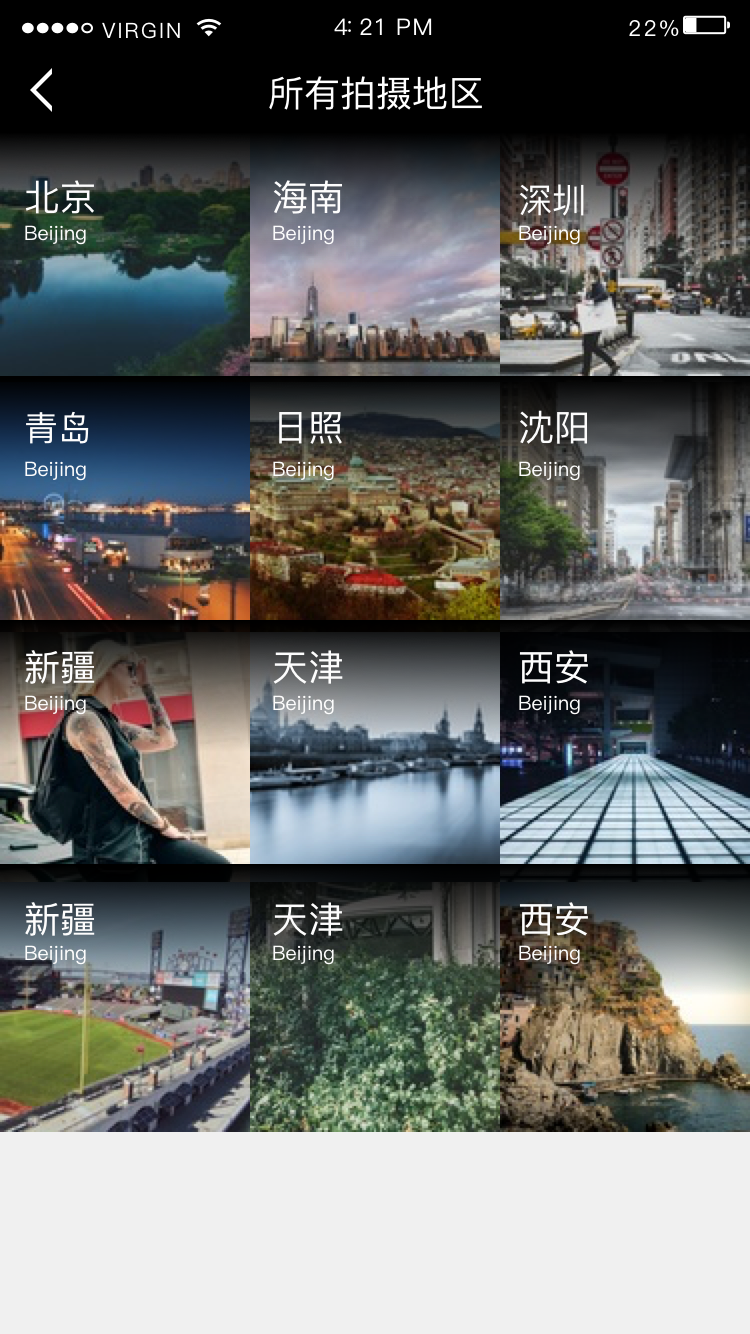
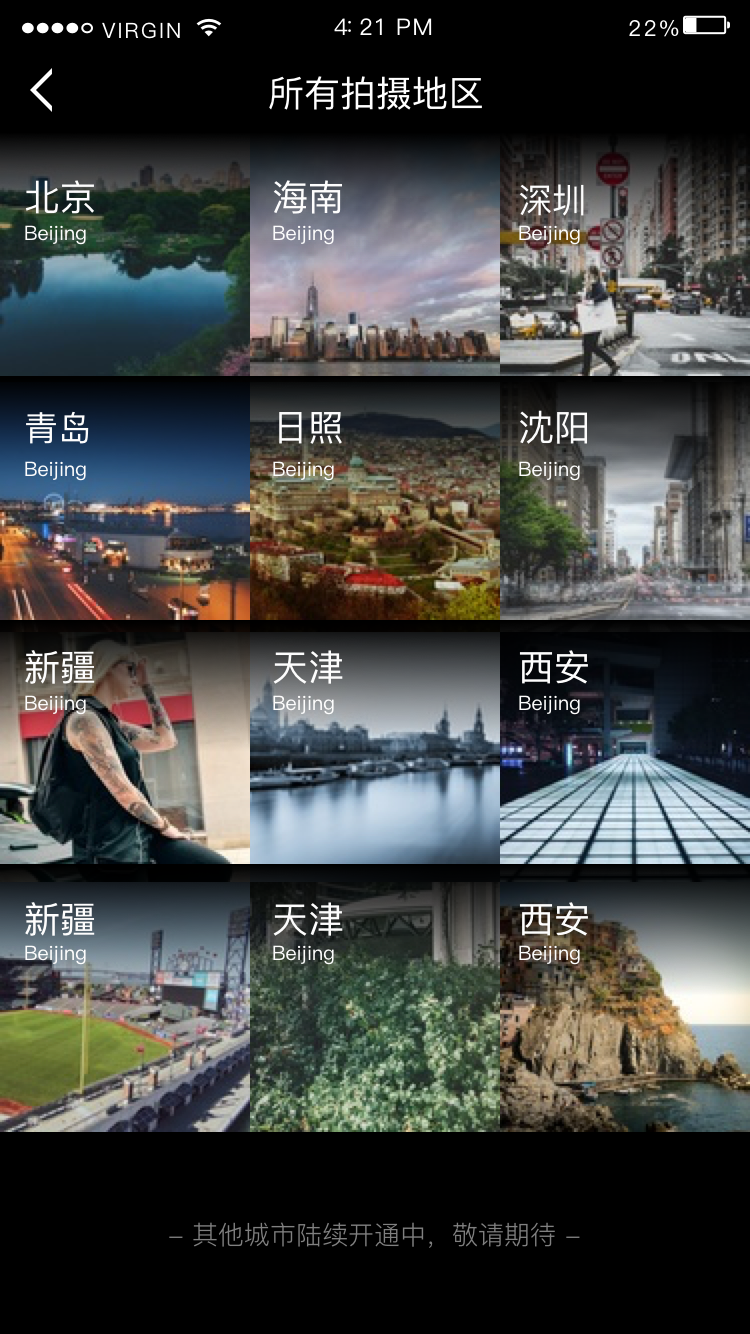
更多拍摄地区改

Changed region(s): [[0.0, 0.8298, 1.0, 1.0]]

diff --git a/更多拍摄地区/data.js b/更多拍摄地区/data.js
@@ -1,1 +1,1 @@
-var pageData = {"exportEveryLayer":0,"sketchName":"","language":"cn","I18N":{"UNIT":"单位","SIZE":"尺寸","SHOWSLICE":"显示切片","DRAGTOSAVE":"右键或拖拽到桌面保存","WIDTH":"宽","HEIGHT":"高","BORDER":"边框","COLOR":"颜色","FILLCOLOR":"填充色","RADIUS":"圆角","LAYERTEXT":"图层内容","FONTSIZE":"字号","CODE":"代码","EXPORT":"导出","FORMAT":"格式","EXPORTLAYER":"导出选中图层","COPYSUCCESS":"复制成功","TEXTSHAREDSTYLE":"文字样式","SHAPESHAREDSTYLE":"图层样式"},"pageOrder":["D2AA90E8-82E9-454D-B242-88E93E7421E1"],"pageData":{"D2AA90E8-82E9-454D-B242-88E93E7421E1":{"pageId":"D2AA90E8-82E9-454D-B242-88E93E7421E1","name":"Page%201","artboardId":["FE665C88-E9EF-493C-A204-9DB38BE2D1B2"]}},"artboard":{"FE665C88-E9EF-493C-A204-9DB38BE2D1B2":{"id":"FE665C88-E9EF-493C-A204-9DB38BE2D1B2","src":"FE665C88-E9EF-493C-A204-9DB38BE2D1B2","name":"iPhone%206%20Copy%2039","x":0,"y":0,"zIndex":0,"width":375,"height":667,"sharedStyleType":"","sharedStyle":"","slice":[],"layer":[{"id":"AA41A6AC-3F42-4175-AAF4-C626F64E25E3","src":"AA41A6AC-3F42-4175-AAF4-C626F64E25E3","name":"Rectangle%20602","x":0,"y":66,"zIndex":0,"width":125,"height":125,"sharedStyleType":"","sharedStyle":"","style":{"width":"125px","height":"125px"}},{"id":"23E7280C-F6B3-4BAE-968D-A47FE6CFA9ED","src":"23E7280C-F6B3-4BAE-968D-A47FE6CFA9ED","name":"Rectangle%20602%20Copy%203","x":0,"y":191,"zIndex":1,"width":125,"height":125,"sharedStyleType":"","sharedStyle":"","style":{"width":"125px","height":"125px"}},{"id":"2E8F5C0B-8448-4AFA-BE68-65B65ACA89C4","src":"2E8F5C0B-8448-4AFA-BE68-65B65ACA89C4","name":"Rectangle%20602%20Copy","x":125,"y":66,"zIndex":2,"width":125,"height":125,"sharedStyleType":"","sharedStyle":"","style":{"width":"125px","height":"125px"}},{"id":"68D3CC74-A40B-4690-85E6-944BB31D60BF","src":"68D3CC74-A40B-4690-85E6-944BB31D60BF","name":"Rectangle%20602%20Copy%204","x":125,"y":191,"zIndex":3,"width":125,"height":125,"sharedStyleType":"","sharedStyle":"","style":{"width":"125px","height":"125px"}},{"id":"056B90EB-AD04-4FA9-A884-996B4EC3C545","src":"056B90EB-AD04-4FA9-A884-996B4EC3C545","name":"Rectangle%20602%20Copy%202","x":250,"y":66,"zIndex":4,"width":125,"height":125,"sharedStyleType":"","sharedStyle":"","style":{"width":"125px","height":"125px"}},{"id":"6B9F06B7-237D-4D61-AE99-734874237DE0","src":"6B9F06B7-237D-4D61-AE99-734874237DE0","name":"Rectangle%20602%20Copy%205","x":250,"y":191,"zIndex":5,"width":125,"height":125,"sharedStyleType":"","sharedStyle":"","style":{"width":"125px","height":"125px"}},{"id":"DCE77FEA-B2EA-40F9-8315-B048350CAB86","src":"DCE77FEA-B2EA-40F9-8315-B048350CAB86","name":"Rectangle%20602%20Copy%208","x":0,"y":316,"zIndex":6,"width":125,"height":125,"sharedStyleType":"","sharedStyle":"","style":{"width":"125px","height":"125px"}},{"id":"CF87B9C1-BE52-4FB6-B465-A9EEAAF77E48","src":"CF87B9C1-BE52-4FB6-B465-A9EEAAF77E48","name":"Rectangle%20602%20Copy%207","x":125,"y":316,"zIndex":7,"width":125,"height":125,"sharedStyleType":"","sharedStyle":"","style":{"width":"125px","height":"125px"}},{"id":"D7213F77-567C-4214-A66F-B45E71EBE4C7","src":"D7213F77-567C-4214-A66F-B45E71EBE4C7","name":"Rectangle%20602%20Copy%206","x":250,"y":316,"zIndex":8,"width":125,"height":125,"sharedStyleType":"","sharedStyle":"","style":{"width":"125px","height":"125px"}},{"id":"2C269A20-8CA6-4CFB-92F4-111C57EC32B1","src":"2C269A20-8CA6-4CFB-92F4-111C57EC32B1","name":"Rectangle%20602%20Copy%2011","x":0,"y":441,"zIndex":9,"width":125,"height":125,"sharedStyleType":"","sharedStyle":"","style":{"width":"125px","height":"125px"}},{"id":"759131BB-2CDC-45FE-B1B4-CD0B80D7A158","src":"759131BB-2CDC-45FE-B1B4-CD0B80D7A158","name":"Rectangle%20602%20Copy%2010","x":125,"y":441,"zIndex":10,"width":125,"height":125,"sharedStyleType":"","sharedStyle":"","style":{"width":"125px","height":"125px"}},{"id":"255310E1-71AE-4406-A3A4-7C453D2DC279","src":"255310E1-71AE-4406-A3A4-7C453D2DC279","name":"Rectangle%20602%20Copy%209","x":250,"y":441,"zIndex":11,"width":125,"height":125,"sharedStyleType":"","sharedStyle":"","style":{"width":"125px","height":"125px"}},{"id":"5A71E75A-5DDF-46FC-B44D-DDC383C0B4CF","src":"5A71E75A-5DDF-46FC-B44D-DDC383C0B4CF","name":"Rectangle%20602%20Copy%2012","x":0,"y":66,"zIndex":12,"width":125,"height":66,"sharedStyleType":"","sharedStyle":"","style":{"background-image":"linear-gradient(-180deg, #000000 0%, rgba(0,0,0,0.00) 100%)","width":"125px","height":"66px"}},{"id":"8D5F2296-84FB-4B47-82E4-4F232B380C12","src":"8D5F2296-84FB-4B47-82E4-4F232B380C12","name":"Rectangle%20602%20Copy%2015","x":0,"y":188,"zIndex":13,"width":125,"height":66,"sharedStyleType":"","sharedStyle":"","style":{"background-image":"linear-gradient(-180deg, #000000 0%, rgba(0,0,0,0.00) 100%)","width":"125px","height":"66px"}},{"id":"ABDD4B86-1CB5-4D88-AF6E-196B6A17793A","src":"ABDD4B86-1CB5-4D88-AF6E-196B6A17793A","name":"Rectangle%20602%20Copy%2013","x":125,"y":66,"zIndex":14,"width":125,"height":66,"sharedStyleType":"","sharedStyle":"","style":{"background-image":"linear-gradient(-180deg, #000000 0%, rgba(0,0,0,0.00) 100%)","width":"125px","height":"66px"}},{"id":"3DB50A85-855B-4B4E-94D1-934FE98E2524","src":"3DB50A85-855B-4B4E-94D1-934FE98E2524","name":"Rectangle%20602%20Copy%2016","x":125,"y":188,"zIndex":15,"width":125,"height":66,"sharedStyleType":"","sharedStyle":"","style":{"background-image":"linear-gradient(-180deg, #000000 0%, rgba(0,0,0,0.00) 100%)","width":"125px","height":"66px"}},{"id":"1A57555E-B08D-4D40-A4B1-2343E0589F54","src":"1A57555E-B08D-4D40-A4B1-2343E0589F54","name":"Rectangle%20602%20Copy%2014","x":250,"y":66,"zIndex":16,"width":125,"height":66,"sharedStyleType":"","sharedStyle":"","style":{"background-image":"linear-gradient(-180deg, #000000 0%, rgba(0,0,0,0.00) 100%)","width":"125px","height":"66px"}},{"id":"3CB93C60-8296-4049-B956-82E6809D6840","src":"3CB93C60-8296-4049-B956-82E6809D6840","name":"Rectangle%20602%20Copy%2017","x":250,"y":188,"zIndex":17,"width":125,"height":66,"sharedStyleType":"","sharedStyle":"","style":{"background-image":"linear-gradient(-180deg, #000000 0%, rgba(0,0,0,0.00) 100%)","width":"125px","height":"66px"}},{"id":"AC85D42B-AB89-47F2-A98E-D280E06EDD64","src":"AC85D42B-AB89-47F2-A98E-D280E06EDD64","name":"Rectangle%20602%20Copy%2020","x":0,"y":310,"zIndex":18,"width":125,"height":66,"sharedStyleType":"","sharedStyle":"","style":{"background-image":"linear-gradient(-180deg, #000000 0%, rgba(0,0,0,0.00) 100%)","width":"125px","height":"66px"}},{"id":"20A8D617-2049-42A9-9CA9-C601B9618179","src":"20A8D617-2049-42A9-9CA9-C601B9618179","name":"Rectangle%20602%20Copy%2019","x":125,"y":310,"zIndex":19,"width":125,"height":66,"sharedStyleType":"","sharedStyle":"","style":{"background-image":"linear-gradient(-180deg, #000000 0%, rgba(0,0,0,0.00) 100%)","width":"125px","height":"66px"}},{"id":"502A6BEB-10AD-46BE-B9A3-0CE2508DA0E5","src":"502A6BEB-10AD-46BE-B9A3-0CE2508DA0E5","name":"Rectangle%20602%20Copy%2018","x":250,"y":310,"zIndex":20,"width":125,"height":66,"sharedStyleType":"","sharedStyle":"","style":{"background-image":"linear-gradient(-180deg, #000000 0%, rgba(0,0,0,0.00) 100%)","width":"125px","height":"66px"}},{"id":"2BB77213-EADE-4D70-860D-ADC0FE62882B","src":"2BB77213-EADE-4D70-860D-ADC0FE62882B","name":"Rectangle%20602%20Copy%2023","x":0,"y":432,"zIndex":21,"width":125,"height":66,"sharedStyleType":"","sharedStyle":"","style":{"background-image":"linear-gradient(-180deg, #000000 0%, rgba(0,0,0,0.00) 100%)","width":"125px","height":"66px"}},{"id":"A7384685-5D51-45D5-9D25-3ADC6B327367","src":"A7384685-5D51-45D5-9D25-3ADC6B327367","name":"Rectangle%20602%20Copy%2022","x":125,"y":432,"zIndex":22,"width":125,"height":66,"sharedStyleType":"","sharedStyle":"","style":{"background-image":"linear-gradient(-180deg, #000000 0%, rgba(0,0,0,0.00) 100%)","width":"125px","height":"66px"}},{"id":"3CA2EDD2-69B8-495D-B7C7-AA393EA798EB","src":"3CA2EDD2-69B8-495D-B7C7-AA393EA798EB","name":"Rectangle%20602%20Copy%2021","x":250,"y":432,"zIndex":23,"width":125,"height":66,"sharedStyleType":"","sharedStyle":"","style":{"background-image":"linear-gradient(-180deg, #000000 0%, rgba(0,0,0,0.00) 100%)","width":"125px","height":"66px"}},{"id":"435FC69D-9C67-4CE9-B695-B244322507FB","src":"435FC69D-9C67-4CE9-B695-B244322507FB","name":"Mask","x":0,"y":0,"zIndex":24,"width":375,"height":66,"sharedStyleType":"","sharedStyle":"","style":{"background":"#000000","width":"375px","height":"66px"},"background":"#000000"},{"id":"05482973-3EF4-4205-B9B4-70910B09C980","src":"05482973-3EF4-4205-B9B4-70910B09C980","name":"Signal","x":11,"y":12,"zIndex":25,"width":36,"height":6,"sharedStyleType":"","sharedStyle":""},{"id":"765A880F-54BD-4EC1-8560-6D7795BBBF85","src":"765A880F-54BD-4EC1-8560-6D7795BBBF85","name":"VIRGIN","x":52,"y":8,"zIndex":26,"width":40,"height":15,"sharedStyleType":"","sharedStyle":"","html":"VIRGIN","style":{"font-family":"PingFangSC-Regular","font-size":"10.59px","color":"#ffffff","letter-spacing":"1px"}},{"id":"D4D28F88-4AAB-48EE-A1AA-6B2871DEE9F2","src":"D4D28F88-4AAB-48EE-A1AA-6B2871DEE9F2","name":"Wifi","x":99,"y":10,"zIndex":27,"width":13,"height":9,"sharedStyleType":"","sharedStyle":"","style":{"background":"#ffffff","width":"13px","height":"9px"},"background":"#ffffff"},{"id":"0DBCDD97-41E0-425E-988C-4743123E72D7","src":"0DBCDD97-41E0-425E-988C-4743123E72D7","name":"Shape","x":364,"y":11,"zIndex":28,"width":2,"height":4,"sharedStyleType":"","sharedStyle":"","style":{"background":"#ffffff","width":"2px","height":"4px"},"background":"#ffffff"},{"id":"375F2E45-ADED-4C39-9533-7AA21B10E5C7","src":"375F2E45-ADED-4C39-9533-7AA21B10E5C7","name":"Shape","x":343,"y":9,"zIndex":29,"width":6,"height":8,"sharedStyleType":"","sharedStyle":"","style":{"background":"#ffffff","width":"6px","height":"8px"},"background":"#ffffff"},{"id":"C88D0FFD-87B3-46C1-9641-2C702883D222","src":"C88D0FFD-87B3-46C1-9641-2C702883D222","name":"Shape","x":342,"y":8,"zIndex":30,"width":20,"height":8,"sharedStyleType":"","sharedStyle":"","borderWidth":1,"style":{"border":"1px solid #ffffff","width":"20px","height":"8px"}},{"id":"E231EEDF-A3FE-495A-BD78-A7B39C815BC5","src":"E231EEDF-A3FE-495A-BD78-A7B39C815BC5","name":"22%25","x":315,"y":6,"zIndex":31,"width":26,"height":16,"sharedStyleType":"","sharedStyle":"","html":"22%25","style":{"font-family":"PingFangSC-Regular","font-size":"11.01px","color":"#ffffff","letter-spacing":"1px"}},{"id":"1B803DD1-3C4D-4BDC-A93E-E3AE976C56A6","src":"1B803DD1-3C4D-4BDC-A93E-E3AE976C56A6","name":"4%2021%20PM","x":167,"y":6,"zIndex":32,"width":51,"height":16,"sharedStyleType":"","sharedStyle":"","html":"4%2021%20PM","style":{"font-family":"PingFangSC-Regular","font-size":"11.49px","color":"#ffffff","letter-spacing":"1px"}},{"id":"1A600BDE-6D19-4FA1-BCBB-07B8CC8FD6EA","src":"1A600BDE-6D19-4FA1-BCBB-07B8CC8FD6EA","name":"%3A","x":174,"y":4,"zIndex":33,"width":5,"height":16,"sharedStyleType":"","sharedStyle":"","html":"%3A","style":{"font-family":"PingFangSC-Regular","font-size":"11.49px","color":"#ffffff","letter-spacing":"1px"}},{"id":"F073F08B-7DCF-458C-A436-8AC3EE84AB30","src":"F073F08B-7DCF-458C-A436-8AC3EE84AB30","name":"%E5%9B%BE%E5%BD%A2","x":15,"y":34,"zIndex":34,"width":11,"height":22,"sharedStyleType":"","sharedStyle":""},{"id":"FE9BD299-F693-45E2-902D-63D5B7FB7B46","src":"FE9BD299-F693-45E2-902D-63D5B7FB7B46","name":"%E6%89%80%E6%9C%89%E6%8B%8D%E6%91%84%E5%9C%B0%E5%8C%BA","x":134,"y":34,"zIndex":35,"width":108,"height":25,"sharedStyleType":"","sharedStyle":"","html":"%E6%89%80%E6%9C%89%E6%8B%8D%E6%91%84%E5%9C%B0%E5%8C%BA","style":{"font-family":"PingFangSC-Regular","font-size":"18px","color":"#ffffff","text-align":"center"}},{"id":"036E12D2-710A-40D8-8841-232FF02FB641","src":"036E12D2-710A-40D8-8841-232FF02FB641","name":"%E5%8C%97%E4%BA%AC","x":12,"y":90,"zIndex":36,"width":38,"height":18,"sharedStyleType":"","sharedStyle":"","html":"%E5%8C%97%E4%BA%AC","style":{"font-family":".PingFangSC-Regular","font-size":"18px","color":"#fdfdfd","letter-spacing":"0px","text-align":"left"}},{"id":"EF25E4A6-F9B6-46CF-9F96-5FA0CF27ECE2","src":"EF25E4A6-F9B6-46CF-9F96-5FA0CF27ECE2","name":"%E9%9D%92%E5%B2%9B","x":12,"y":205,"zIndex":37,"width":35,"height":17,"sharedStyleType":"","sharedStyle":"","html":"%E9%9D%92%E5%B2%9B","style":{"font-family":".PingFangSC-Regular","font-size":"17px","color":"#fdfdfd","letter-spacing":"0px","text-align":"left"}},{"id":"E7950571-954E-4B2B-A60F-B235FAED76F7","src":"E7950571-954E-4B2B-A60F-B235FAED76F7","name":"%E6%96%B0%E7%96%86","x":12,"y":325,"zIndex":38,"width":38,"height":18,"sharedStyleType":"","sharedStyle":"","html":"%E6%96%B0%E7%96%86","style":{"font-family":".PingFangSC-Regular","font-size":"18px","color":"#fdfdfd","letter-spacing":"0px","text-align":"left"}},{"id":"B787BEC4-88D9-4575-A3D8-ECA3F90893C5","src":"B787BEC4-88D9-4575-A3D8-ECA3F90893C5","name":"%E6%96%B0%E7%96%86%20copy","x":12,"y":451,"zIndex":39,"width":38,"height":18,"sharedStyleType":"","sharedStyle":"","html":"%E6%96%B0%E7%96%86","style":{"font-family":".PingFangSC-Regular","font-size":"18px","color":"#fdfdfd","letter-spacing":"0px","text-align":"left"}},{"id":"E58813A5-4AAE-4691-A755-BB4EBF0CEB2E","src":"E58813A5-4AAE-4691-A755-BB4EBF0CEB2E","name":"%E5%A4%A9%E6%B4%A5","x":136,"y":325,"zIndex":40,"width":38,"height":18,"sharedStyleType":"","sharedStyle":"","html":"%E5%A4%A9%E6%B4%A5","style":{"font-family":".PingFangSC-Regular","font-size":"18px","color":"#fdfdfd","letter-spacing":"0px","text-align":"left"}},{"id":"6C22702C-71AD-4489-9DED-C6C95C97445B","src":"6C22702C-71AD-4489-9DED-C6C95C97445B","name":"%E5%A4%A9%E6%B4%A5%20copy","x":136,"y":451,"zIndex":41,"width":38,"height":18,"sharedStyleType":"","sharedStyle":"","html":"%E5%A4%A9%E6%B4%A5","style":{"font-family":".PingFangSC-Regular","font-size":"18px","color":"#fdfdfd","letter-spacing":"0px","text-align":"left"}},{"id":"B0498D56-2950-434B-98D9-A67E1BE29242","src":"B0498D56-2950-434B-98D9-A67E1BE29242","name":"%E8%A5%BF%E5%AE%89","x":259,"y":325,"zIndex":42,"width":38,"height":18,"sharedStyleType":"","sharedStyle":"","html":"%E8%A5%BF%E5%AE%89","style":{"font-family":".PingFangSC-Regular","font-size":"18px","color":"#fdfdfd","letter-spacing":"0px","text-align":"left"}},{"id":"1BDAD3C1-A349-427C-BFCE-3ABFEE6C0D4A","src":"1BDAD3C1-A349-427C-BFCE-3ABFEE6C0D4A","name":"%E8%A5%BF%E5%AE%89%20copy","x":259,"y":451,"zIndex":43,"width":38,"height":18,"sharedStyleType":"","sharedStyle":"","html":"%E8%A5%BF%E5%AE%89","style":{"font-family":".PingFangSC-Regular","font-size":"18px","color":"#fdfdfd","letter-spacing":"0px","text-align":"left"}},{"id":"854F5158-60A6-4F23-BDFE-88388D1FCD5F","src":"854F5158-60A6-4F23-BDFE-88388D1FCD5F","name":"%E6%97%A5%E7%85%A7","x":136,"y":205,"zIndex":44,"width":38,"height":18,"sharedStyleType":"","sharedStyle":"","html":"%E6%97%A5%E7%85%A7","style":{"font-family":".PingFangSC-Regular","font-size":"18px","color":"#fdfdfd","letter-spacing":"0px","text-align":"left"}},{"id":"ACE002F3-36F5-4DC9-B01B-044562F497A7","src":"ACE002F3-36F5-4DC9-B01B-044562F497A7","name":"%E6%B2%88%E9%98%B3","x":259,"y":205,"zIndex":45,"width":38,"height":18,"sharedStyleType":"","sharedStyle":"","html":"%E6%B2%88%E9%98%B3","style":{"font-family":".PingFangSC-Regular","font-size":"18px","color":"#fdfdfd","letter-spacing":"0px","text-align":"left"}},{"id":"391968DF-7FAB-43FF-AE17-91D34E371CBB","src":"391968DF-7FAB-43FF-AE17-91D34E371CBB","name":"%E6%B5%B7%E5%8D%97","x":136,"y":90,"zIndex":46,"width":38,"height":18,"sharedStyleType":"","sharedStyle":"","html":"%E6%B5%B7%E5%8D%97","style":{"font-family":".PingFangSC-Regular","font-size":"18px","color":"#fdfdfd","letter-spacing":"0px","text-align":"left"}},{"id":"9E150D0E-79B4-4736-A73C-0ACA1B941460","src":"9E150D0E-79B4-4736-A73C-0ACA1B941460","name":"%E6%B7%B1%E5%9C%B3","x":259,"y":91,"zIndex":47,"width":35,"height":17,"sharedStyleType":"","sharedStyle":"","html":"%E6%B7%B1%E5%9C%B3","style":{"font-family":".PingFangSC-Regular","font-size":"17px","color":"#fdfdfd","letter-spacing":"0px","text-align":"left"}},{"id":"4A142CE2-CD45-4664-A6C5-CE1C703B8023","src":"4A142CE2-CD45-4664-A6C5-CE1C703B8023","name":"Beijing","x":12,"y":109,"zIndex":48,"width":32,"height":12,"sharedStyleType":"","sharedStyle":"","html":"Beijing","style":{"font-family":".PingFangSC-Regular","font-size":"10px","color":"#fdfdfd","letter-spacing":"0px","text-align":"left"}},{"id":"B92C43F3-681B-4717-935E-70608B5F1853","src":"B92C43F3-681B-4717-935E-70608B5F1853","name":"Beijing%20Copy%203","x":12,"y":227,"zIndex":49,"width":32,"height":12,"sharedStyleType":"","sharedStyle":"","html":"Beijing","style":{"font-family":".PingFangSC-Regular","font-size":"10px","color":"#fdfdfd","letter-spacing":"0px","text-align":"left"}},{"id":"5C431BD3-9A6D-49E1-9AC5-113589AA6D86","src":"5C431BD3-9A6D-49E1-9AC5-113589AA6D86","name":"Beijing%20Copy","x":136,"y":109,"zIndex":50,"width":32,"height":12,"sharedStyleType":"","sharedStyle":"","html":"Beijing","style":{"font-family":".PingFangSC-Regular","font-size":"10px","color":"#fdfdfd","letter-spacing":"0px","text-align":"left"}},{"id":"B5748905-AC07-40D9-BB56-231E8139C716","src":"B5748905-AC07-40D9-BB56-231E8139C716","name":"Beijing%20Copy%204","x":136,"y":227,"zIndex":51,"width":32,"height":12,"sharedStyleType":"","sharedStyle":"","html":"Beijing","style":{"font-family":".PingFangSC-Regular","font-size":"10px","color":"#fdfdfd","letter-spacing":"0px","text-align":"left"}},{"id":"1A541893-3320-42AE-9077-A8D6CDA3DEB5","src":"1A541893-3320-42AE-9077-A8D6CDA3DEB5","name":"Beijing%20Copy%202","x":259,"y":109,"zIndex":52,"width":32,"height":12,"sharedStyleType":"","sharedStyle":"","html":"Beijing","style":{"font-family":".PingFangSC-Regular","font-size":"10px","color":"#fdfdfd","letter-spacing":"0px","text-align":"left"}},{"id":"0CC8101D-0666-4B95-B1C3-16A6B9E39A9D","src":"0CC8101D-0666-4B95-B1C3-16A6B9E39A9D","name":"Beijing%20Copy%205","x":259,"y":227,"zIndex":53,"width":32,"height":12,"sharedStyleType":"","sharedStyle":"","html":"Beijing","style":{"font-family":".PingFangSC-Regular","font-size":"10px","color":"#fdfdfd","letter-spacing":"0px","text-align":"left"}},{"id":"1E564E50-401E-442F-B77F-1BF0149EA136","src":"1E564E50-401E-442F-B77F-1BF0149EA136","name":"Beijing%20Copy%208","x":12,"y":344,"zIndex":54,"width":32,"height":12,"sharedStyleType":"","sharedStyle":"","html":"Beijing","style":{"font-family":".PingFangSC-Regular","font-size":"10px","color":"#fdfdfd","letter-spacing":"0px","text-align":"left"}},{"id":"A2D5BDB4-95A8-45A2-AAFC-01C7B998716D","src":"A2D5BDB4-95A8-45A2-AAFC-01C7B998716D","name":"Beijing%20Copy%207","x":136,"y":344,"zIndex":55,"width":32,"height":12,"sharedStyleType":"","sharedStyle":"","html":"Beijing","style":{"font-family":".PingFangSC-Regular","font-size":"10px","color":"#fdfdfd","letter-spacing":"0px","text-align":"left"}},{"id":"4D59884F-D4B7-44C8-97EC-D39A39369913","src":"4D59884F-D4B7-44C8-97EC-D39A39369913","name":"Beijing%20Copy%206","x":259,"y":344,"zIndex":56,"width":32,"height":12,"sharedStyleType":"","sharedStyle":"","html":"Beijing","style":{"font-family":".PingFangSC-Regular","font-size":"10px","color":"#fdfdfd","letter-spacing":"0px","text-align":"left"}},{"id":"529D2404-E0DE-4F33-950A-2B8ADEA57CCB","src":"529D2404-E0DE-4F33-950A-2B8ADEA57CCB","name":"Beijing%20Copy%2011","x":12,"y":469,"zIndex":57,"width":32,"height":12,"sharedStyleType":"","sharedStyle":"","html":"Beijing","style":{"font-family":".PingFangSC-Regular","font-size":"10px","color":"#fdfdfd","letter-spacing":"0px","text-align":"left"}},{"id":"C5009570-6364-4568-A66E-455F416FA72C","src":"C5009570-6364-4568-A66E-455F416FA72C","name":"Beijing%20Copy%2010","x":136,"y":469,"zIndex":58,"width":32,"height":12,"sharedStyleType":"","sharedStyle":"","html":"Beijing","style":{"font-family":".PingFangSC-Regular","font-size":"10px","color":"#fdfdfd","letter-spacing":"0px","text-align":"left"}},{"id":"0F44A609-FF31-4BC9-9527-ECF5A4DC3959","src":"0F44A609-FF31-4BC9-9527-ECF5A4DC3959","name":"Beijing%20Copy%209","x":259,"y":469,"zIndex":59,"width":32,"height":12,"sharedStyleType":"","sharedStyle":"","html":"Beijing","style":{"font-family":".PingFangSC-Regular","font-size":"10px","color":"#fdfdfd","letter-spacing":"0px","text-align":"left"}}],"mask":{"435FC69D-9C67-4CE9-B695-B244322507FB":[]}}}}
+var pageData = {"exportEveryLayer":0,"sketchName":"","language":"cn","I18N":{"UNIT":"单位","SIZE":"尺寸","SHOWSLICE":"显示切片","DRAGTOSAVE":"右键或拖拽到桌面保存","WIDTH":"宽","HEIGHT":"高","BORDER":"边框","COLOR":"颜色","FILLCOLOR":"填充色","RADIUS":"圆角","LAYERTEXT":"图层内容","FONTSIZE":"字号","CODE":"代码","EXPORT":"导出","FORMAT":"格式","EXPORTLAYER":"导出选中图层","COPYSUCCESS":"复制成功","TEXTSHAREDSTYLE":"文字样式","SHAPESHAREDSTYLE":"图层样式"},"pageOrder":["D2AA90E8-82E9-454D-B242-88E93E7421E1"],"pageData":{"D2AA90E8-82E9-454D-B242-88E93E7421E1":{"pageId":"D2AA90E8-82E9-454D-B242-88E93E7421E1","name":"Page%201","artboardId":["FE665C88-E9EF-493C-A204-9DB38BE2D1B2"]}},"artboard":{"FE665C88-E9EF-493C-A204-9DB38BE2D1B2":{"id":"FE665C88-E9EF-493C-A204-9DB38BE2D1B2","src":"FE665C88-E9EF-493C-A204-9DB38BE2D1B2","name":"iPhone%206%20Copy%2039","x":0,"y":0,"zIndex":0,"width":375,"height":667,"sharedStyleType":"","sharedStyle":"","slice":[],"layer":[{"id":"AA41A6AC-3F42-4175-AAF4-C626F64E25E3","src":"AA41A6AC-3F42-4175-AAF4-C626F64E25E3","name":"Rectangle%20602","x":0,"y":66,"zIndex":0,"width":125,"height":125,"sharedStyleType":"","sharedStyle":"","style":{"width":"125px","height":"125px"}},{"id":"23E7280C-F6B3-4BAE-968D-A47FE6CFA9ED","src":"23E7280C-F6B3-4BAE-968D-A47FE6CFA9ED","name":"Rectangle%20602%20Copy%203","x":0,"y":191,"zIndex":1,"width":125,"height":125,"sharedStyleType":"","sharedStyle":"","style":{"width":"125px","height":"125px"}},{"id":"2E8F5C0B-8448-4AFA-BE68-65B65ACA89C4","src":"2E8F5C0B-8448-4AFA-BE68-65B65ACA89C4","name":"Rectangle%20602%20Copy","x":125,"y":66,"zIndex":2,"width":125,"height":125,"sharedStyleType":"","sharedStyle":"","style":{"width":"125px","height":"125px"}},{"id":"68D3CC74-A40B-4690-85E6-944BB31D60BF","src":"68D3CC74-A40B-4690-85E6-944BB31D60BF","name":"Rectangle%20602%20Copy%204","x":125,"y":191,"zIndex":3,"width":125,"height":125,"sharedStyleType":"","sharedStyle":"","style":{"width":"125px","height":"125px"}},{"id":"056B90EB-AD04-4FA9-A884-996B4EC3C545","src":"056B90EB-AD04-4FA9-A884-996B4EC3C545","name":"Rectangle%20602%20Copy%202","x":250,"y":66,"zIndex":4,"width":125,"height":125,"sharedStyleType":"","sharedStyle":"","style":{"width":"125px","height":"125px"}},{"id":"6B9F06B7-237D-4D61-AE99-734874237DE0","src":"6B9F06B7-237D-4D61-AE99-734874237DE0","name":"Rectangle%20602%20Copy%205","x":250,"y":191,"zIndex":5,"width":125,"height":125,"sharedStyleType":"","sharedStyle":"","style":{"width":"125px","height":"125px"}},{"id":"DCE77FEA-B2EA-40F9-8315-B048350CAB86","src":"DCE77FEA-B2EA-40F9-8315-B048350CAB86","name":"Rectangle%20602%20Copy%208","x":0,"y":316,"zIndex":6,"width":125,"height":125,"sharedStyleType":"","sharedStyle":"","style":{"width":"125px","height":"125px"}},{"id":"CF87B9C1-BE52-4FB6-B465-A9EEAAF77E48","src":"CF87B9C1-BE52-4FB6-B465-A9EEAAF77E48","name":"Rectangle%20602%20Copy%207","x":125,"y":316,"zIndex":7,"width":125,"height":125,"sharedStyleType":"","sharedStyle":"","style":{"width":"125px","height":"125px"}},{"id":"D7213F77-567C-4214-A66F-B45E71EBE4C7","src":"D7213F77-567C-4214-A66F-B45E71EBE4C7","name":"Rectangle%20602%20Copy%206","x":250,"y":316,"zIndex":8,"width":125,"height":125,"sharedStyleType":"","sharedStyle":"","style":{"width":"125px","height":"125px"}},{"id":"2C269A20-8CA6-4CFB-92F4-111C57EC32B1","src":"2C269A20-8CA6-4CFB-92F4-111C57EC32B1","name":"Rectangle%20602%20Copy%2011","x":0,"y":441,"zIndex":9,"width":125,"height":125,"sharedStyleType":"","sharedStyle":"","style":{"width":"125px","height":"125px"}},{"id":"759131BB-2CDC-45FE-B1B4-CD0B80D7A158","src":"759131BB-2CDC-45FE-B1B4-CD0B80D7A158","name":"Rectangle%20602%20Copy%2010","x":125,"y":441,"zIndex":10,"width":125,"height":125,"sharedStyleType":"","sharedStyle":"","style":{"width":"125px","height":"125px"}},{"id":"255310E1-71AE-4406-A3A4-7C453D2DC279","src":"255310E1-71AE-4406-A3A4-7C453D2DC279","name":"Rectangle%20602%20Copy%209","x":250,"y":441,"zIndex":11,"width":125,"height":125,"sharedStyleType":"","sharedStyle":"","style":{"width":"125px","height":"125px"}},{"id":"5A71E75A-5DDF-46FC-B44D-DDC383C0B4CF","src":"5A71E75A-5DDF-46FC-B44D-DDC383C0B4CF","name":"Rectangle%20602%20Copy%2012","x":0,"y":66,"zIndex":12,"width":125,"height":66,"sharedStyleType":"","sharedStyle":"","style":{"background-image":"linear-gradient(-180deg, #000000 0%, rgba(0,0,0,0.00) 100%)","width":"125px","height":"66px"}},{"id":"8D5F2296-84FB-4B47-82E4-4F232B380C12","src":"8D5F2296-84FB-4B47-82E4-4F232B380C12","name":"Rectangle%20602%20Copy%2015","x":0,"y":188,"zIndex":13,"width":125,"height":66,"sharedStyleType":"","sharedStyle":"","style":{"background-image":"linear-gradient(-180deg, #000000 0%, rgba(0,0,0,0.00) 100%)","width":"125px","height":"66px"}},{"id":"ABDD4B86-1CB5-4D88-AF6E-196B6A17793A","src":"ABDD4B86-1CB5-4D88-AF6E-196B6A17793A","name":"Rectangle%20602%20Copy%2013","x":125,"y":66,"zIndex":14,"width":125,"height":66,"sharedStyleType":"","sharedStyle":"","style":{"background-image":"linear-gradient(-180deg, #000000 0%, rgba(0,0,0,0.00) 100%)","width":"125px","height":"66px"}},{"id":"3DB50A85-855B-4B4E-94D1-934FE98E2524","src":"3DB50A85-855B-4B4E-94D1-934FE98E2524","name":"Rectangle%20602%20Copy%2016","x":125,"y":188,"zIndex":15,"width":125,"height":66,"sharedStyleType":"","sharedStyle":"","style":{"background-image":"linear-gradient(-180deg, #000000 0%, rgba(0,0,0,0.00) 100%)","width":"125px","height":"66px"}},{"id":"1A57555E-B08D-4D40-A4B1-2343E0589F54","src":"1A57555E-B08D-4D40-A4B1-2343E0589F54","name":"Rectangle%20602%20Copy%2014","x":250,"y":66,"zIndex":16,"width":125,"height":66,"sharedStyleType":"","sharedStyle":"","style":{"background-image":"linear-gradient(-180deg, #000000 0%, rgba(0,0,0,0.00) 100%)","width":"125px","height":"66px"}},{"id":"3CB93C60-8296-4049-B956-82E6809D6840","src":"3CB93C60-8296-4049-B956-82E6809D6840","name":"Rectangle%20602%20Copy%2017","x":250,"y":188,"zIndex":17,"width":125,"height":66,"sharedStyleType":"","sharedStyle":"","style":{"background-image":"linear-gradient(-180deg, #000000 0%, rgba(0,0,0,0.00) 100%)","width":"125px","height":"66px"}},{"id":"AC85D42B-AB89-47F2-A98E-D280E06EDD64","src":"AC85D42B-AB89-47F2-A98E-D280E06EDD64","name":"Rectangle%20602%20Copy%2020","x":0,"y":310,"zIndex":18,"width":125,"height":66,"sharedStyleType":"","sharedStyle":"","style":{"background-image":"linear-gradient(-180deg, #000000 0%, rgba(0,0,0,0.00) 100%)","width":"125px","height":"66px"}},{"id":"20A8D617-2049-42A9-9CA9-C601B9618179","src":"20A8D617-2049-42A9-9CA9-C601B9618179","name":"Rectangle%20602%20Copy%2019","x":125,"y":310,"zIndex":19,"width":125,"height":66,"sharedStyleType":"","sharedStyle":"","style":{"background-image":"linear-gradient(-180deg, #000000 0%, rgba(0,0,0,0.00) 100%)","width":"125px","height":"66px"}},{"id":"502A6BEB-10AD-46BE-B9A3-0CE2508DA0E5","src":"502A6BEB-10AD-46BE-B9A3-0CE2508DA0E5","name":"Rectangle%20602%20Copy%2018","x":250,"y":310,"zIndex":20,"width":125,"height":66,"sharedStyleType":"","sharedStyle":"","style":{"background-image":"linear-gradient(-180deg, #000000 0%, rgba(0,0,0,0.00) 100%)","width":"125px","height":"66px"}},{"id":"2BB77213-EADE-4D70-860D-ADC0FE62882B","src":"2BB77213-EADE-4D70-860D-ADC0FE62882B","name":"Rectangle%20602%20Copy%2023","x":0,"y":432,"zIndex":21,"width":125,"height":66,"sharedStyleType":"","sharedStyle":"","style":{"background-image":"linear-gradient(-180deg, #000000 0%, rgba(0,0,0,0.00) 100%)","width":"125px","height":"66px"}},{"id":"A7384685-5D51-45D5-9D25-3ADC6B327367","src":"A7384685-5D51-45D5-9D25-3ADC6B327367","name":"Rectangle%20602%20Copy%2022","x":125,"y":432,"zIndex":22,"width":125,"height":66,"sharedStyleType":"","sharedStyle":"","style":{"background-image":"linear-gradient(-180deg, #000000 0%, rgba(0,0,0,0.00) 100%)","width":"125px","height":"66px"}},{"id":"3CA2EDD2-69B8-495D-B7C7-AA393EA798EB","src":"3CA2EDD2-69B8-495D-B7C7-AA393EA798EB","name":"Rectangle%20602%20Copy%2021","x":250,"y":432,"zIndex":23,"width":125,"height":66,"sharedStyleType":"","sharedStyle":"","style":{"background-image":"linear-gradient(-180deg, #000000 0%, rgba(0,0,0,0.00) 100%)","width":"125px","height":"66px"}},{"id":"435FC69D-9C67-4CE9-B695-B244322507FB","src":"435FC69D-9C67-4CE9-B695-B244322507FB","name":"Mask","x":0,"y":0,"zIndex":24,"width":375,"height":66,"sharedStyleType":"","sharedStyle":"","style":{"background":"#000000","width":"375px","height":"66px"},"background":"#000000"},{"id":"05482973-3EF4-4205-B9B4-70910B09C980","src":"05482973-3EF4-4205-B9B4-70910B09C980","name":"Signal","x":11,"y":12,"zIndex":25,"width":36,"height":6,"sharedStyleType":"","sharedStyle":""},{"id":"765A880F-54BD-4EC1-8560-6D7795BBBF85","src":"765A880F-54BD-4EC1-8560-6D7795BBBF85","name":"VIRGIN","x":52,"y":8,"zIndex":26,"width":40,"height":15,"sharedStyleType":"","sharedStyle":"","html":"VIRGIN","style":{"font-family":"PingFangSC-Regular","font-size":"10.59px","color":"#ffffff","letter-spacing":"1px"}},{"id":"D4D28F88-4AAB-48EE-A1AA-6B2871DEE9F2","src":"D4D28F88-4AAB-48EE-A1AA-6B2871DEE9F2","name":"Wifi","x":99,"y":10,"zIndex":27,"width":13,"height":9,"sharedStyleType":"","sharedStyle":"","style":{"background":"#ffffff","width":"13px","height":"9px"},"background":"#ffffff"},{"id":"0DBCDD97-41E0-425E-988C-4743123E72D7","src":"0DBCDD97-41E0-425E-988C-4743123E72D7","name":"Shape","x":364,"y":11,"zIndex":28,"width":2,"height":4,"sharedStyleType":"","sharedStyle":"","style":{"background":"#ffffff","width":"2px","height":"4px"},"background":"#ffffff"},{"id":"375F2E45-ADED-4C39-9533-7AA21B10E5C7","src":"375F2E45-ADED-4C39-9533-7AA21B10E5C7","name":"Shape","x":343,"y":9,"zIndex":29,"width":6,"height":8,"sharedStyleType":"","sharedStyle":"","style":{"background":"#ffffff","width":"6px","height":"8px"},"background":"#ffffff"},{"id":"C88D0FFD-87B3-46C1-9641-2C702883D222","src":"C88D0FFD-87B3-46C1-9641-2C702883D222","name":"Shape","x":342,"y":8,"zIndex":30,"width":20,"height":8,"sharedStyleType":"","sharedStyle":"","borderWidth":1,"style":{"border":"1px solid #ffffff","width":"20px","height":"8px"}},{"id":"E231EEDF-A3FE-495A-BD78-A7B39C815BC5","src":"E231EEDF-A3FE-495A-BD78-A7B39C815BC5","name":"22%25","x":315,"y":6,"zIndex":31,"width":26,"height":16,"sharedStyleType":"","sharedStyle":"","html":"22%25","style":{"font-family":"PingFangSC-Regular","font-size":"11.01px","color":"#ffffff","letter-spacing":"1px"}},{"id":"1B803DD1-3C4D-4BDC-A93E-E3AE976C56A6","src":"1B803DD1-3C4D-4BDC-A93E-E3AE976C56A6","name":"4%2021%20PM","x":167,"y":6,"zIndex":32,"width":51,"height":16,"sharedStyleType":"","sharedStyle":"","html":"4%2021%20PM","style":{"font-family":"PingFangSC-Regular","font-size":"11.49px","color":"#ffffff","letter-spacing":"1px"}},{"id":"1A600BDE-6D19-4FA1-BCBB-07B8CC8FD6EA","src":"1A600BDE-6D19-4FA1-BCBB-07B8CC8FD6EA","name":"%3A","x":174,"y":4,"zIndex":33,"width":5,"height":16,"sharedStyleType":"","sharedStyle":"","html":"%3A","style":{"font-family":"PingFangSC-Regular","font-size":"11.49px","color":"#ffffff","letter-spacing":"1px"}},{"id":"F073F08B-7DCF-458C-A436-8AC3EE84AB30","src":"F073F08B-7DCF-458C-A436-8AC3EE84AB30","name":"%E5%9B%BE%E5%BD%A2","x":15,"y":34,"zIndex":34,"width":11,"height":22,"sharedStyleType":"","sharedStyle":""},{"id":"FE9BD299-F693-45E2-902D-63D5B7FB7B46","src":"FE9BD299-F693-45E2-902D-63D5B7FB7B46","name":"%E6%89%80%E6%9C%89%E6%8B%8D%E6%91%84%E5%9C%B0%E5%8C%BA","x":134,"y":34,"zIndex":35,"width":108,"height":25,"sharedStyleType":"","sharedStyle":"","html":"%E6%89%80%E6%9C%89%E6%8B%8D%E6%91%84%E5%9C%B0%E5%8C%BA","style":{"font-family":"PingFangSC-Regular","font-size":"18px","color":"#ffffff","text-align":"center"}},{"id":"036E12D2-710A-40D8-8841-232FF02FB641","src":"036E12D2-710A-40D8-8841-232FF02FB641","name":"%E5%8C%97%E4%BA%AC","x":12,"y":90,"zIndex":36,"width":38,"height":18,"sharedStyleType":"","sharedStyle":"","html":"%E5%8C%97%E4%BA%AC","style":{"font-family":".PingFangSC-Regular","font-size":"18px","color":"#fdfdfd","letter-spacing":"0px","text-align":"left"}},{"id":"EF25E4A6-F9B6-46CF-9F96-5FA0CF27ECE2","src":"EF25E4A6-F9B6-46CF-9F96-5FA0CF27ECE2","name":"%E9%9D%92%E5%B2%9B","x":12,"y":205,"zIndex":37,"width":35,"height":17,"sharedStyleType":"","sharedStyle":"","html":"%E9%9D%92%E5%B2%9B","style":{"font-family":".PingFangSC-Regular","font-size":"17px","color":"#fdfdfd","letter-spacing":"0px","text-align":"left"}},{"id":"E7950571-954E-4B2B-A60F-B235FAED76F7","src":"E7950571-954E-4B2B-A60F-B235FAED76F7","name":"%E6%96%B0%E7%96%86","x":12,"y":325,"zIndex":38,"width":38,"height":18,"sharedStyleType":"","sharedStyle":"","html":"%E6%96%B0%E7%96%86","style":{"font-family":".PingFangSC-Regular","font-size":"18px","color":"#fdfdfd","letter-spacing":"0px","text-align":"left"}},{"id":"B787BEC4-88D9-4575-A3D8-ECA3F90893C5","src":"B787BEC4-88D9-4575-A3D8-ECA3F90893C5","name":"%E6%96%B0%E7%96%86%20copy","x":12,"y":451,"zIndex":39,"width":38,"height":18,"sharedStyleType":"","sharedStyle":"","html":"%E6%96%B0%E7%96%86","style":{"font-family":".PingFangSC-Regular","font-size":"18px","color":"#fdfdfd","letter-spacing":"0px","text-align":"left"}},{"id":"E58813A5-4AAE-4691-A755-BB4EBF0CEB2E","src":"E58813A5-4AAE-4691-A755-BB4EBF0CEB2E","name":"%E5%A4%A9%E6%B4%A5","x":136,"y":325,"zIndex":40,"width":38,"height":18,"sharedStyleType":"","sharedStyle":"","html":"%E5%A4%A9%E6%B4%A5","style":{"font-family":".PingFangSC-Regular","font-size":"18px","color":"#fdfdfd","letter-spacing":"0px","text-align":"left"}},{"id":"6C22702C-71AD-4489-9DED-C6C95C97445B","src":"6C22702C-71AD-4489-9DED-C6C95C97445B","name":"%E5%A4%A9%E6%B4%A5%20copy","x":136,"y":451,"zIndex":41,"width":38,"height":18,"sharedStyleType":"","sharedStyle":"","html":"%E5%A4%A9%E6%B4%A5","style":{"font-family":".PingFangSC-Regular","font-size":"18px","color":"#fdfdfd","letter-spacing":"0px","text-align":"left"}},{"id":"B0498D56-2950-434B-98D9-A67E1BE29242","src":"B0498D56-2950-434B-98D9-A67E1BE29242","name":"%E8%A5%BF%E5%AE%89","x":259,"y":325,"zIndex":42,"width":38,"height":18,"sharedStyleType":"","sharedStyle":"","html":"%E8%A5%BF%E5%AE%89","style":{"font-family":".PingFangSC-Regular","font-size":"18px","color":"#fdfdfd","letter-spacing":"0px","text-align":"left"}},{"id":"1BDAD3C1-A349-427C-BFCE-3ABFEE6C0D4A","src":"1BDAD3C1-A349-427C-BFCE-3ABFEE6C0D4A","name":"%E8%A5%BF%E5%AE%89%20copy","x":259,"y":451,"zIndex":43,"width":38,"height":18,"sharedStyleType":"","sharedStyle":"","html":"%E8%A5%BF%E5%AE%89","style":{"font-family":".PingFangSC-Regular","font-size":"18px","color":"#fdfdfd","letter-spacing":"0px","text-align":"left"}},{"id":"854F5158-60A6-4F23-BDFE-88388D1FCD5F","src":"854F5158-60A6-4F23-BDFE-88388D1FCD5F","name":"%E6%97%A5%E7%85%A7","x":136,"y":205,"zIndex":44,"width":38,"height":18,"sharedStyleType":"","sharedStyle":"","html":"%E6%97%A5%E7%85%A7","style":{"font-family":".PingFangSC-Regular","font-size":"18px","color":"#fdfdfd","letter-spacing":"0px","text-align":"left"}},{"id":"ACE002F3-36F5-4DC9-B01B-044562F497A7","src":"ACE002F3-36F5-4DC9-B01B-044562F497A7","name":"%E6%B2%88%E9%98%B3","x":259,"y":205,"zIndex":45,"width":38,"height":18,"sharedStyleType":"","sharedStyle":"","html":"%E6%B2%88%E9%98%B3","style":{"font-family":".PingFangSC-Regular","font-size":"18px","color":"#fdfdfd","letter-spacing":"0px","text-align":"left"}},{"id":"391968DF-7FAB-43FF-AE17-91D34E371CBB","src":"391968DF-7FAB-43FF-AE17-91D34E371CBB","name":"%E6%B5%B7%E5%8D%97","x":136,"y":90,"zIndex":46,"width":38,"height":18,"sharedStyleType":"","sharedStyle":"","html":"%E6%B5%B7%E5%8D%97","style":{"font-family":".PingFangSC-Regular","font-size":"18px","color":"#fdfdfd","letter-spacing":"0px","text-align":"left"}},{"id":"9E150D0E-79B4-4736-A73C-0ACA1B941460","src":"9E150D0E-79B4-4736-A73C-0ACA1B941460","name":"%E6%B7%B1%E5%9C%B3","x":259,"y":91,"zIndex":47,"width":35,"height":17,"sharedStyleType":"","sharedStyle":"","html":"%E6%B7%B1%E5%9C%B3","style":{"font-family":".PingFangSC-Regular","font-size":"17px","color":"#fdfdfd","letter-spacing":"0px","text-align":"left"}},{"id":"4A142CE2-CD45-4664-A6C5-CE1C703B8023","src":"4A142CE2-CD45-4664-A6C5-CE1C703B8023","name":"Beijing","x":12,"y":109,"zIndex":48,"width":32,"height":12,"sharedStyleType":"","sharedStyle":"","html":"Beijing","style":{"font-family":".PingFangSC-Regular","font-size":"10px","color":"#fdfdfd","letter-spacing":"0px","text-align":"left"}},{"id":"B92C43F3-681B-4717-935E-70608B5F1853","src":"B92C43F3-681B-4717-935E-70608B5F1853","name":"Beijing%20Copy%203","x":12,"y":227,"zIndex":49,"width":32,"height":12,"sharedStyleType":"","sharedStyle":"","html":"Beijing","style":{"font-family":".PingFangSC-Regular","font-size":"10px","color":"#fdfdfd","letter-spacing":"0px","text-align":"left"}},{"id":"5C431BD3-9A6D-49E1-9AC5-113589AA6D86","src":"5C431BD3-9A6D-49E1-9AC5-113589AA6D86","name":"Beijing%20Copy","x":136,"y":109,"zIndex":50,"width":32,"height":12,"sharedStyleType":"","sharedStyle":"","html":"Beijing","style":{"font-family":".PingFangSC-Regular","font-size":"10px","color":"#fdfdfd","letter-spacing":"0px","text-align":"left"}},{"id":"B5748905-AC07-40D9-BB56-231E8139C716","src":"B5748905-AC07-40D9-BB56-231E8139C716","name":"Beijing%20Copy%204","x":136,"y":227,"zIndex":51,"width":32,"height":12,"sharedStyleType":"","sharedStyle":"","html":"Beijing","style":{"font-family":".PingFangSC-Regular","font-size":"10px","color":"#fdfdfd","letter-spacing":"0px","text-align":"left"}},{"id":"1A541893-3320-42AE-9077-A8D6CDA3DEB5","src":"1A541893-3320-42AE-9077-A8D6CDA3DEB5","name":"Beijing%20Copy%202","x":259,"y":109,"zIndex":52,"width":32,"height":12,"sharedStyleType":"","sharedStyle":"","html":"Beijing","style":{"font-family":".PingFangSC-Regular","font-size":"10px","color":"#fdfdfd","letter-spacing":"0px","text-align":"left"}},{"id":"0CC8101D-0666-4B95-B1C3-16A6B9E39A9D","src":"0CC8101D-0666-4B95-B1C3-16A6B9E39A9D","name":"Beijing%20Copy%205","x":259,"y":227,"zIndex":53,"width":32,"height":12,"sharedStyleType":"","sharedStyle":"","html":"Beijing","style":{"font-family":".PingFangSC-Regular","font-size":"10px","color":"#fdfdfd","letter-spacing":"0px","text-align":"left"}},{"id":"1E564E50-401E-442F-B77F-1BF0149EA136","src":"1E564E50-401E-442F-B77F-1BF0149EA136","name":"Beijing%20Copy%208","x":12,"y":344,"zIndex":54,"width":32,"height":12,"sharedStyleType":"","sharedStyle":"","html":"Beijing","style":{"font-family":".PingFangSC-Regular","font-size":"10px","color":"#fdfdfd","letter-spacing":"0px","text-align":"left"}},{"id":"A2D5BDB4-95A8-45A2-AAFC-01C7B998716D","src":"A2D5BDB4-95A8-45A2-AAFC-01C7B998716D","name":"Beijing%20Copy%207","x":136,"y":344,"zIndex":55,"width":32,"height":12,"sharedStyleType":"","sharedStyle":"","html":"Beijing","style":{"font-family":".PingFangSC-Regular","font-size":"10px","color":"#fdfdfd","letter-spacing":"0px","text-align":"left"}},{"id":"4D59884F-D4B7-44C8-97EC-D39A39369913","src":"4D59884F-D4B7-44C8-97EC-D39A39369913","name":"Beijing%20Copy%206","x":259,"y":344,"zIndex":56,"width":32,"height":12,"sharedStyleType":"","sharedStyle":"","html":"Beijing","style":{"font-family":".PingFangSC-Regular","font-size":"10px","color":"#fdfdfd","letter-spacing":"0px","text-align":"left"}},{"id":"529D2404-E0DE-4F33-950A-2B8ADEA57CCB","src":"529D2404-E0DE-4F33-950A-2B8ADEA57CCB","name":"Beijing%20Copy%2011","x":12,"y":469,"zIndex":57,"width":32,"height":12,"sharedStyleType":"","sharedStyle":"","html":"Beijing","style":{"font-family":".PingFangSC-Regular","font-size":"10px","color":"#fdfdfd","letter-spacing":"0px","text-align":"left"}},{"id":"C5009570-6364-4568-A66E-455F416FA72C","src":"C5009570-6364-4568-A66E-455F416FA72C","name":"Beijing%20Copy%2010","x":136,"y":469,"zIndex":58,"width":32,"height":12,"sharedStyleType":"","sharedStyle":"","html":"Beijing","style":{"font-family":".PingFangSC-Regular","font-size":"10px","color":"#fdfdfd","letter-spacing":"0px","text-align":"left"}},{"id":"0F44A609-FF31-4BC9-9527-ECF5A4DC3959","src":"0F44A609-FF31-4BC9-9527-ECF5A4DC3959","name":"Beijing%20Copy%209","x":259,"y":469,"zIndex":59,"width":32,"height":12,"sharedStyleType":"","sharedStyle":"","html":"Beijing","style":{"font-family":".PingFangSC-Regular","font-size":"10px","color":"#fdfdfd","letter-spacing":"0px","text-align":"left"}},{"id":"5F3FC07B-214E-43BA-8827-41037A686861","src":"5F3FC07B-214E-43BA-8827-41037A686861","name":"-%20%E5%85%B6%E4%BB%96%E5%9F%8E%E5%B8%82%E9%99%86%E7%BB%AD%E5%BC%80%E9%80%9A%E4%B8%AD%EF%BC%8C%E6%95%AC%E8%AF%B7%E6%9C%9F%E5%BE%85%20-","x":84,"y":608,"zIndex":60,"width":207,"height":16,"sharedStyleType":"","sharedStyle":"","html":"-%20%E5%85%B6%E4%BB%96%E5%9F%8E%E5%B8%82%E9%99%86%E7%BB%AD%E5%BC%80%E9%80%9A%E4%B8%AD%EF%BC%8C%E6%95%AC%E8%AF%B7%E6%9C%9F%E5%BE%85%20-","style":{"font-family":".PingFangSC-Light","font-size":"13px","color":"#808080","letter-spacing":"0px","text-align":"left"}}],"mask":{"435FC69D-9C67-4CE9-B695-B244322507FB":[]}}}}
